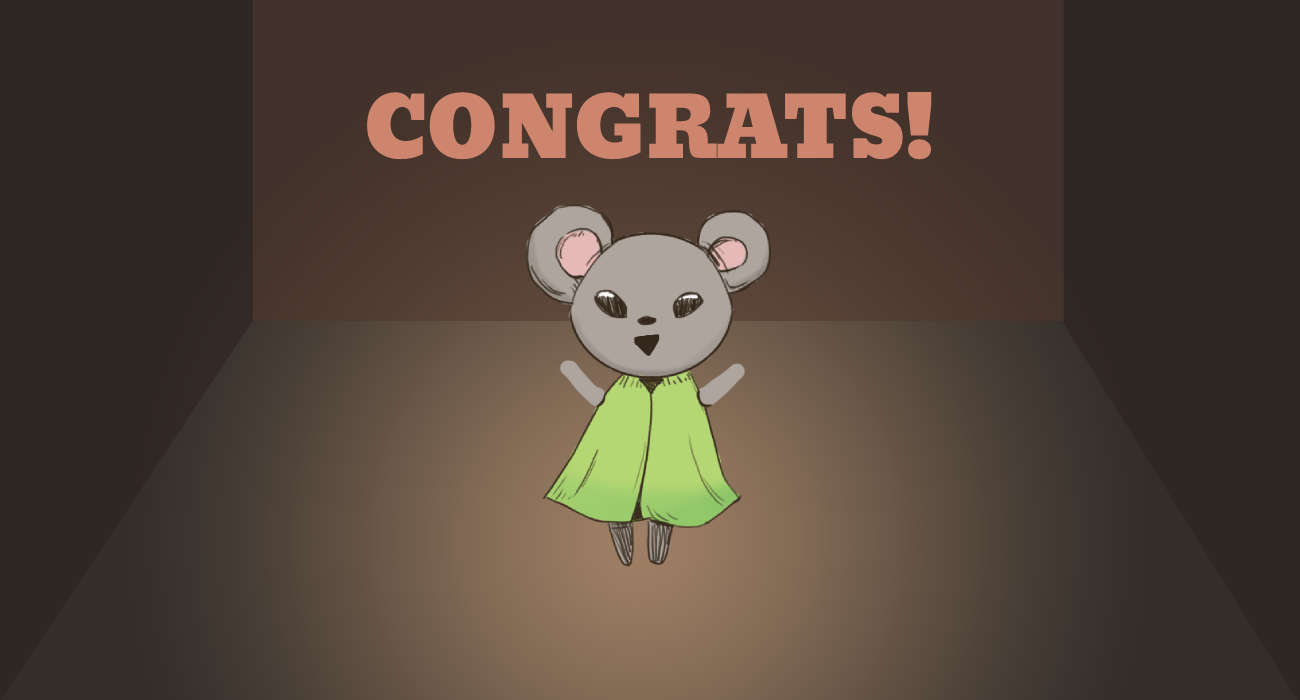
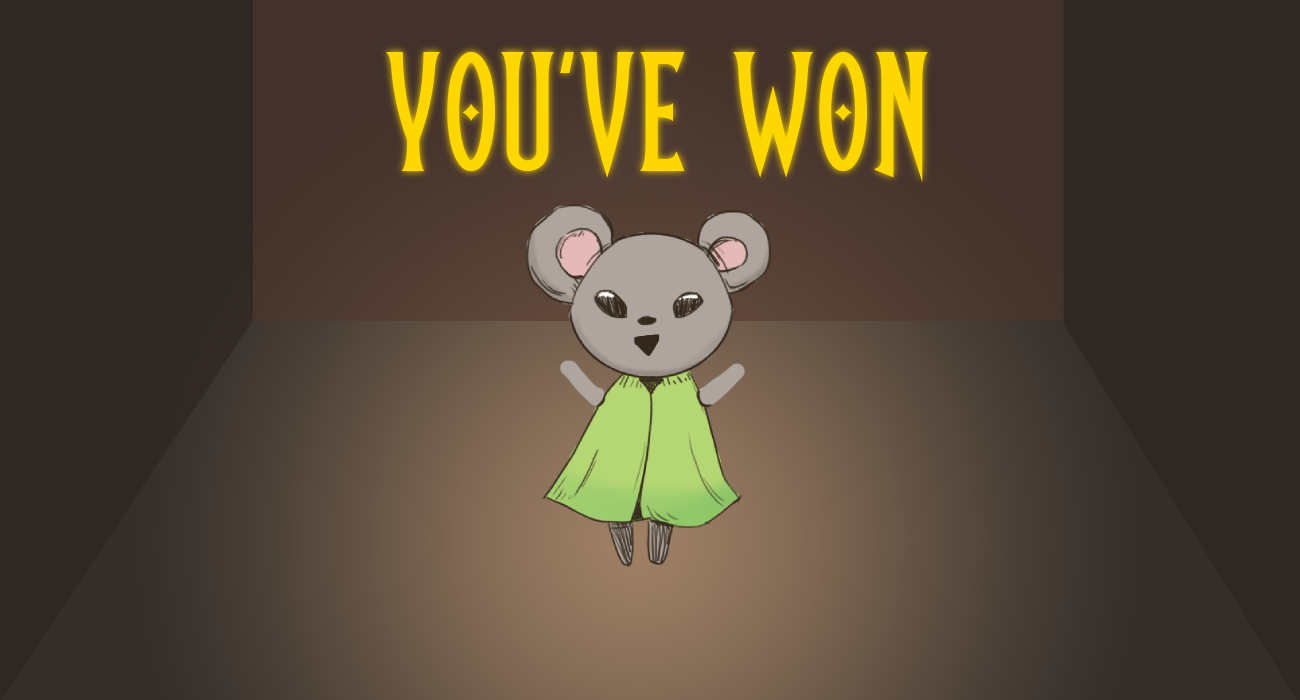
added Images for UI (NOT IMPLEMENTED)

Changed region(s): [[0.2769, 0.06, 0.7385, 0.27]]

diff --git a/FinalProject/EndScreen.java b/FinalProject/EndScreen.java
@@ -8,7 +8,7 @@ import greenfoot.*;  // (World, Actor, GreenfootImage, Greenfoot and MouseInfo)
  */
 public class EndScreen extends World
 {
-
+    private Button b;
     /**
      * Constructor for objects of class EndScreen.
      * 
@@ -17,6 +17,21 @@ public class EndScreen extends World
     {    
         // Create a new world with 600x400 cells with a cell size of 1x1 pixels.
         super(1300, 700, 1); 
-        setBackground(new GreenfootImage("GameOverScreen.png")); 
+        setBackground(new GreenfootImage("LoseScreen.png")); 
+        
+        GreenfootImage background = new GreenfootImage("playAgainButton.png");
+        background.scale(background.getWidth()/8, background.getHeight()/8);
+        
+        b = new Button(background, background);
+        addObject(b,getWidth()/2,getHeight()/2 + 100);
+        b.setLocation(650,300);
     }
+    
+    public void act(){
+        if (b.getClick()){
+            Greenfoot.setWorld(new StartScreen());
+        }
+    }
+    
+    
 }
